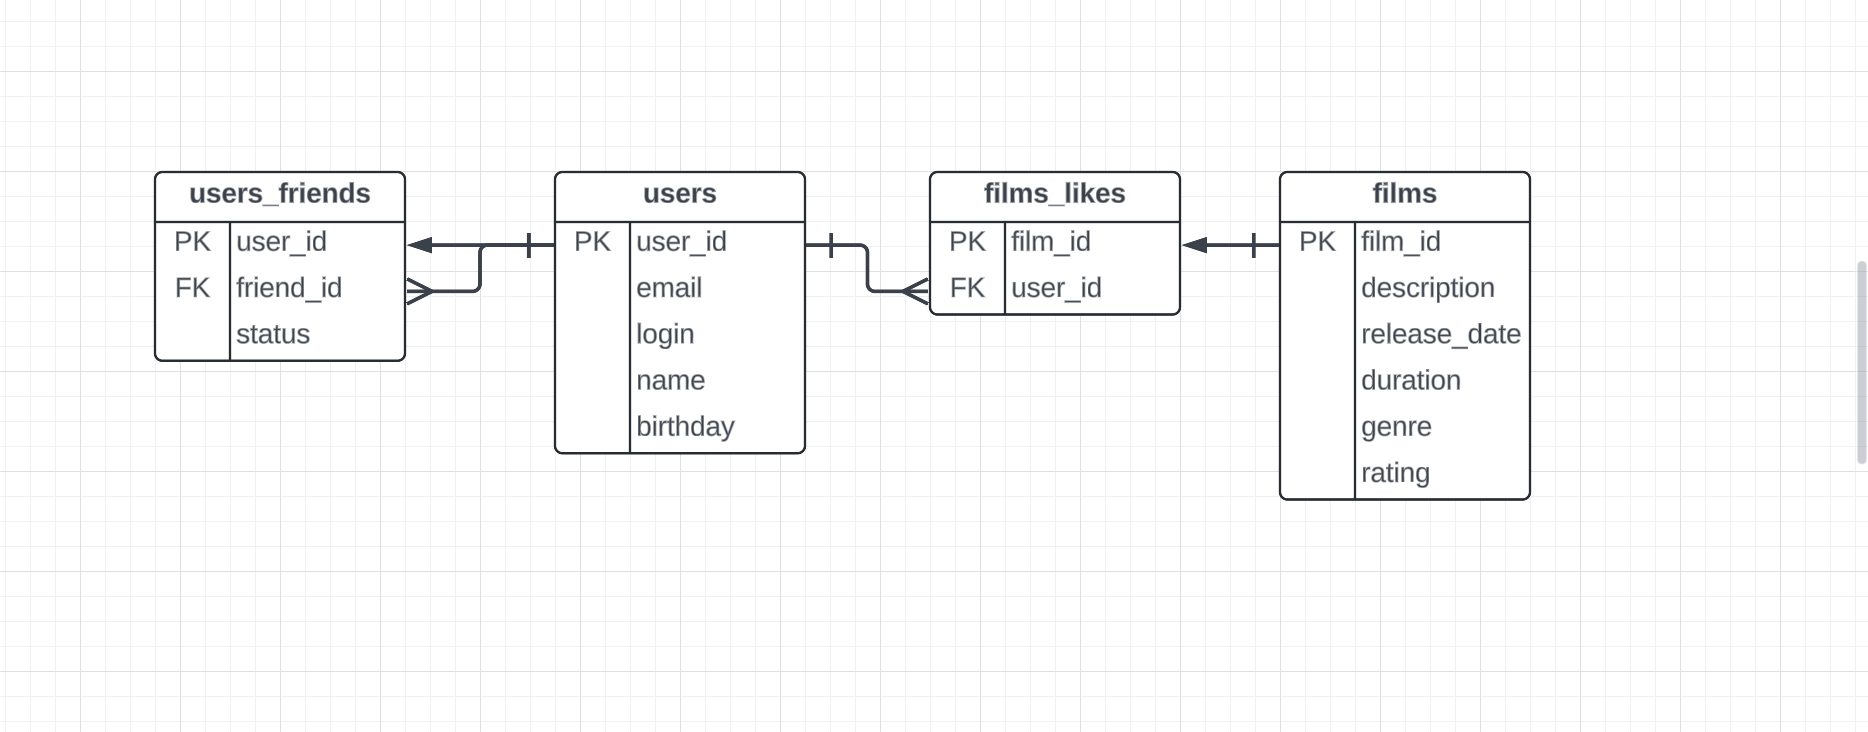
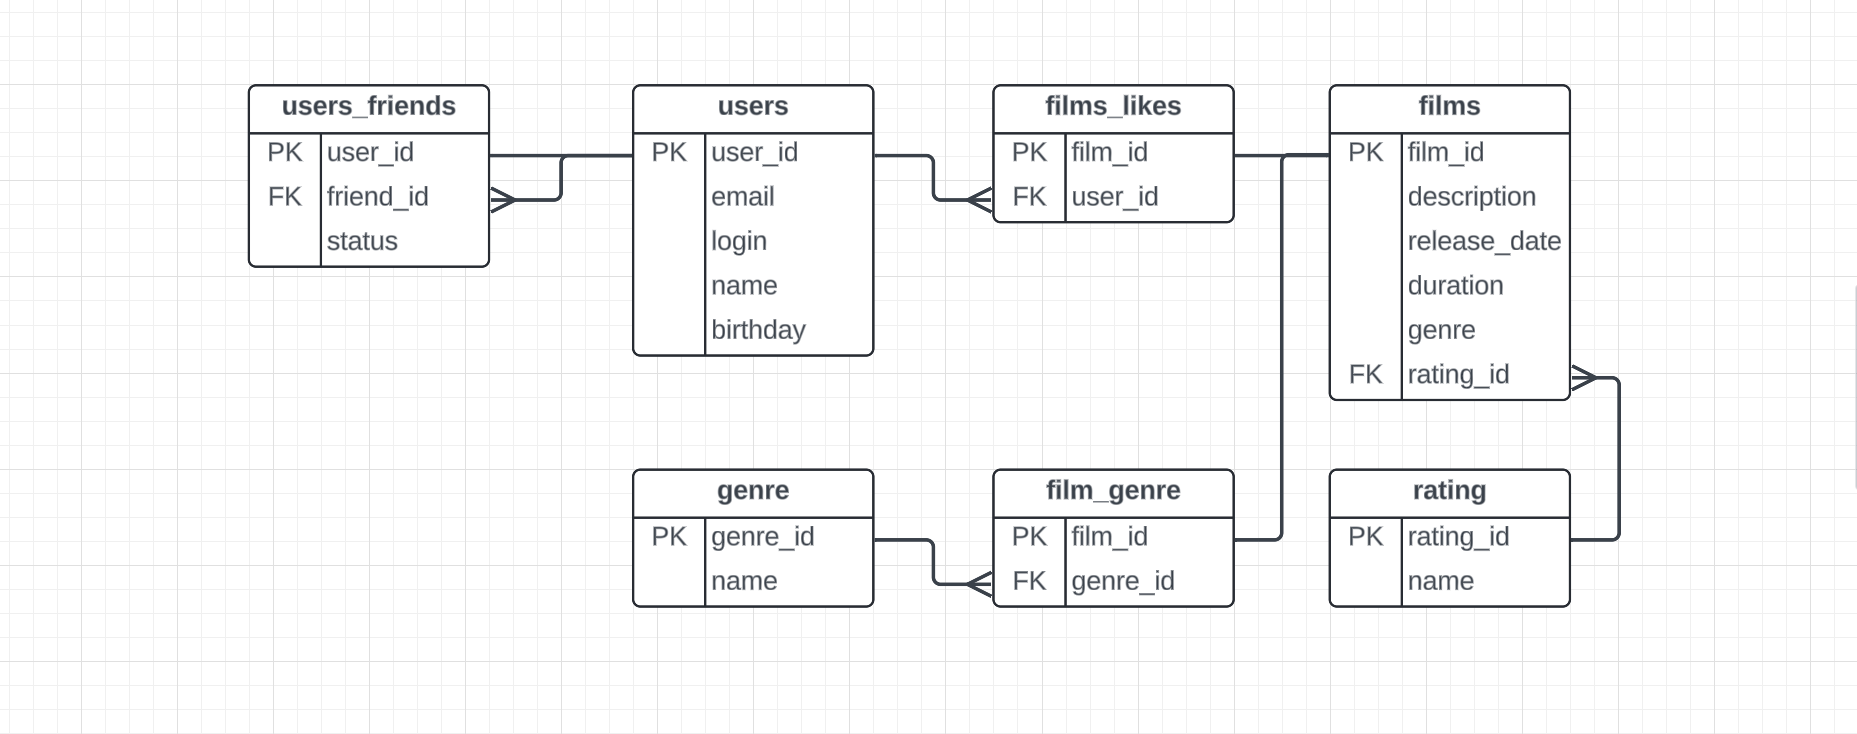
feat: genre and rating

diff --git a/README.md b/README.md
@@ -12,6 +12,18 @@
  * name — имя пользователя;
  * birthday — дата рождения пользователя;
 
+#### users_friends
+Промежуточная таблица. Содержит информацию о том, каких друзей (пользователей) содержат пользователи из таблицы users.
+
+Таблица включает поля:
+
+* user_id — идентификатор пользователя (первичный ключ);
+* friend_id (отсылает к таблице movie) — идентификатор друга (внешний ключ);
+* status — статус для связи «дружба» между двумя пользователями:
+  * true - подтверждённая — когда второй пользователь согласился на добавление.
+  * false - неподтверждённая — когда один пользователь отправил запрос на добавление другого пользователя в друзья.
+
+
 #### films
 Содержит данные о пользователях.
 
@@ -34,17 +46,38 @@
   * R — лицам до 17 лет просматривать фильм можно только в присутствии взрослого,
   * NC-17 — лицам до 18 лет просмотр запрещён.
 
-#### users_friends
-Промежуточная таблица. Содержит информацию о том, каких друзей (пользователей) содержат пользователи из таблицы users.
+#### rating
+Содержит данные о рейтингах (возрастных ограничениях фильма).
+
+Таблица состоит из полей:
+* rating_id - идентификатор рейтинга (первичный ключ);
+* name - наименование рейтинга;
+  * G — у фильма нет возрастных ограничений,
+  * PG — детям рекомендуется смотреть фильм с родителями,
+  * PG-13 — детям до 13 лет просмотр не желателен,
+  * R — лицам до 17 лет просматривать фильм можно только в присутствии взрослого,
+  * NC-17 — лицам до 18 лет просмотр запрещён.
+
+#### genre
+Содержит данные о жанрах фильма.
+
+Таблица состоит из полей:
+* genre_id - идентификатор жанра (первичный ключ);
+* name - наименование жанра;
+  * Комедия
+  * Драма
+  * Мультфильм
+  * Триллер
+  * Документальный
+  * Боевик
+
+#### film_genre
+Промежуточная таблица. Содержит информацию о том какие жанры имеют фильмы.
 
 Таблица включает поля:
 
-* user_id — идентификатор пользователя (первичный ключ);
-* friend_id (отсылает к таблице movie) — идентификатор друга (внешний ключ);
-* status — статус для связи «дружба» между двумя пользователями:
-  * true - подтверждённая — когда второй пользователь согласился на добавление.
-  * false - неподтверждённая — когда один пользователь отправил запрос на добавление другого пользователя в друзья.
-
+* film_id — идентификатор фильма (первичный ключ);
+* genre_id - идентификатор жанра;
 
 #### films_likes
 Промежуточная таблица. Содержит информацию о том, каким пользователям понравились фильмы из таблицы films.
@@ -64,6 +97,14 @@
 таблицей users. Одному пользователю (**user_id**) может понравится несколько фильмов (**film_id**). Также и один фильм 
 (**film_id**) может понравиться нескольким пользователям (**user_id**).
 Связь многие ко многим.
+
+3) Таблица **films_genre** связана первичным ключом (**film_id**) с таблицей films и внешним ключом (**genre_id**) с
+   таблицей genre. Один и тот же жанр (**genre_id**) может быть у нескольких фильмов (**film_id**). Также и один фильм
+   (**film_id**) может иметь несколько жанров (**genre_id**).
+   Связь многие ко многим.
+
+4) Таблица **rating** связана первичным ключом (**rating_id**) c таблицей films. Один рейтинг может принадлежать 
+нескольким фильмам, но у фильма может быть только 1 рейтинг. Связь один ко многим.
 
 #### Примеры запросов для основных операций
 Получение всех фильмов:
